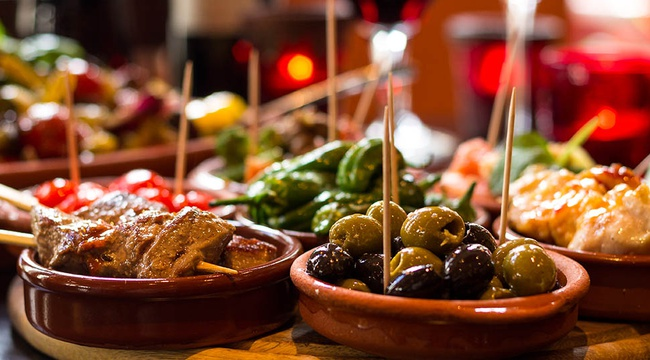
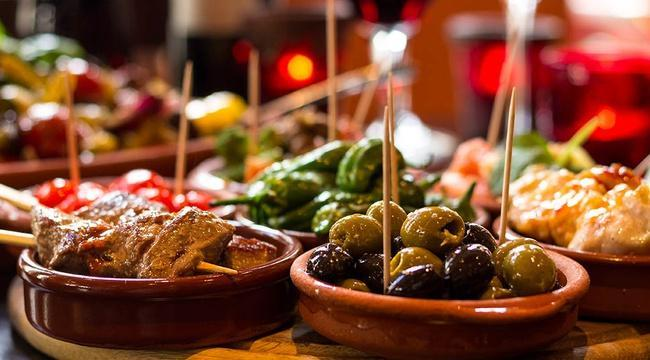
serverside image rescaling

diff --git a/logic/upload.php b/logic/upload.php
@@ -6,7 +6,7 @@ require_once("../data/dbfunctions.php");
 // Check if the form was submitted
 if ($_SERVER["REQUEST_METHOD"] == "POST" && isset($_SESSION['admin']) && $_SESSION['admin'] == true) {
     // Specify the upload directory
-    $uploadDirectory = 'uploads/news';
+    $uploadDirectory = 'uploads/news/';
 
     // Check if the file is uploaded successfully
     if ($_FILES['image'] && $_FILES['image']['error'] == UPLOAD_ERR_OK) {
@@ -15,27 +15,30 @@ if ($_SERVER["REQUEST_METHOD"] == "POST" && isset($_SESSION['admin']) && $_SESSI
         if ($check !== false) {
             // Check file size (limit to 10MB)
             if ($_FILES['image']['size'] <= 10 * 1024 * 1024) {
-                // Check file format (allow only certain formats, e.g., jpeg, png, gif)
-                $allowedFormats = ['jpeg', 'jpg', 'png', 'gif'];
+                // Check file format
+                $allowedFormats = ['jpeg', 'jpg', 'png'];
                 $fileFormat = strtolower(pathinfo($_FILES['image']['name'], PATHINFO_EXTENSION));
 
                 if (in_array($fileFormat, $allowedFormats)) {
-                    // Move the uploaded file to the specified directory with the original filename
-                    $uploadPath = 'uploads/news' . basename($_FILES['image']['name']);
+                    // Generate a unique filename to avoid overwriting existing files
+                    $imageName = pathinfo($_FILES['image']['name'], PATHINFO_FILENAME) . '.' . $fileFormat;
+                    $uploadPath = $uploadDirectory . $imageName;
 
                     if (move_uploaded_file($_FILES['image']['tmp_name'], '../' . $uploadPath)) {
+                        resizeImage("../" . $uploadPath, 650, 360);
                         // Update the image_url for the existing news article
-                        $newsId = $_POST['news_id']; // Assuming you have a hidden input field for news_id in your form
+                        $newsId = $_POST['news_id'];
                         $image_url = $uploadPath;
-                    
+
                         $sql = "UPDATE `news` SET `image_url` = ? WHERE `id` = ?";
                         $stmt = $db->prepare($sql);
                         $stmt->bind_param("si", $image_url, $newsId);
-                    
+
                         if ($stmt->execute()) {
                             // Success message
                             echo "File successfully uploaded and data updated in the database.";
                             header("Location: ../home.php");
+                            exit();
                         } else {
                             // Error message for database update failure
                             echo "Error updating data in the database.";
@@ -62,7 +65,7 @@ if ($_SERVER["REQUEST_METHOD"] == "POST" && isset($_SESSION['admin']) && $_SESSI
         echo "File upload failed. Please check the file and try again";
     }
 } else {
-    // Redirect to home.php if accessed directly without form submission or if user is not admin
+    // Redirect to home.php if accessed directly without form submission or if the user is not admin
     header("Location: ../home.php");
     exit();
 }

diff --git a/components/navbar.php b/components/navbar.php
@@ -52,30 +52,34 @@
           <!-- Reservations Dropdown -->
           <div class="dropdown">
             <button class="btn btn-light dropdown-toggle" type="button" id="reservationsDropdown" data-bs-toggle="dropdown" aria-expanded="false">
-                Reservations
+              Reservations
             </button>
             <ul class="dropdown-menu" aria-labelledby="reservationsDropdown">
-                <?php
-                // fetch user bookings from the database
-                $userEmail = $_SESSION['email'];
-                $userBookings = getUserBookings($userEmail);
+              <?php
+              // fetch user bookings from the database
+              $userEmail = $_SESSION['email'];
+              $userBookings = getUserBookings($userEmail);
 
-                // compare two bookings based on their date
-                function compareBookings($booking1, $booking2) {
-                  $date1 = strtotime($booking1['arrival_date']);
-                  $date2 = strtotime($booking2['arrival_date']);
+              // compare two bookings based on their date
+              function compareBookings($booking1, $booking2) {
+                $date1 = strtotime($booking1['arrival_date']);
+                $date2 = strtotime($booking2['arrival_date']);
 
-                  return $date1 - $date2;
-                }
+                return $date1 - $date2;
+              }
 
-                // sort the user bookings based on date
-                usort($userBookings, 'compareBookings');
+              // sort the user bookings based on date
+              usort($userBookings, 'compareBookings');
 
-                // display user bookings in the dropdown
+              // display user bookings in the dropdown
+              if (empty($userBookings)) {
+                echo '<li><a class="dropdown-item">No reservations</a></li>';
+              } else {
                 foreach ($userBookings as $booking) {
-                    echo '<li><a href="../details.php?bookingId=' . $booking['id'] . '" class="dropdown-item">' . $booking['room_title'] . '</a></li>';
+                  echo '<li><a href="../details.php?bookingId=' . $booking['id'] . '" class="dropdown-item">' . $booking['room_title'] . '</a></li>';
                 }
-                ?>
+              }
+              ?>
             </ul>
           </div>
           <!-- Booking Management -->

diff --git a/data/dbfunctions.php b/data/dbfunctions.php
@@ -288,5 +288,65 @@ function findBookingsByUserId($userId) {
     return $bookings;
 }
 
+// Function to resize image
+function resizeImage($file, $width, $height) {
+    // Get image information
+    list($origWidth, $origHeight, $imageType) = getimagesize($file);
+
+    // Determine image type and create appropriate source image resource
+    switch ($imageType) {
+        case IMAGETYPE_JPEG:
+            $sourceImage = imagecreatefromjpeg($file);
+            break;
+        case IMAGETYPE_PNG:
+            $sourceImage = imagecreatefrompng($file);
+            break;
+        default:
+            // Unsupported image type
+            return false;
+    }
+
+    $imageRatio = $origWidth / $origHeight;
+    $targetRatio = $width / $height;
+
+    if ($imageRatio > $targetRatio) {
+        $newWidth = $width;
+        $newHeight = $width / $imageRatio;
+    } else {
+        $newHeight = $height;
+        $newWidth = $height * $imageRatio;
+    }
+
+    $resizedImage = imagecreatetruecolor($newWidth, $newHeight);
+
+    // preserve transparency for PNG images
+    if ($imageType === IMAGETYPE_PNG) {
+        imagealphablending($resizedImage, false);
+        imagesavealpha($resizedImage, true);
+    }
+
+    // perform image resizing
+    imagecopyresampled($resizedImage, $sourceImage, 0, 0, 0, 0, $newWidth, $newHeight, $origWidth, $origHeight);
+
+    // save the resized image based on its original format
+    switch ($imageType) {
+        case IMAGETYPE_JPEG:
+            imagejpeg($resizedImage, $file);
+            break;
+        case IMAGETYPE_PNG:
+            imagepng($resizedImage, $file);
+            break;
+
+        default:
+            // unsupported image type
+            return false;
+    }
+    // free up
+    imagedestroy($resizedImage);
+    imagedestroy($sourceImage);
+
+    return true;
+}
+
 ?>
 

diff --git a/data/savenews.php b/data/savenews.php
@@ -21,6 +21,8 @@ if ($_SERVER["REQUEST_METHOD"] === "POST") {
 
             // set the image URL to the uploaded image path
             $imageUrl = $targetFilePath;
+            // resize the uploaded image
+            resizeImage("../" . $targetFilePath, 650, 360);
         } else {
             // invalid image type, use default image URL
             $imageUrl = $defaultImageUrl;

diff --git a/data/saveroom.php b/data/saveroom.php
@@ -21,6 +21,8 @@ if ($_SERVER["REQUEST_METHOD"] === "POST") {
 
             // set the image URL to the uploaded image path
             $imageUrl = $targetFilePath;
+            // resize the uploaded image
+            resizeImage("../" . $targetFilePath, 650, 360);
         } else {
             // invalid image type, use default image URL
             $imageUrl = $defaultImageUrl;

diff --git a/README.md b/README.md
@@ -8,6 +8,12 @@ For Local Database initialization:
 3. Import the db/schema/initial.php file
 4. Verify the data (e.g. SELECT * FROM userdata;)
 
+Activate GD-Extension in php.ini (to enable image rescaling functions)
+1. Open php.ini (e.g.: "..\xampp\php" or "../MAMP/bin/php/php8.2.0/bin/php.ini")
+2. Search "extension=gd" or "extension=gd2"
+3. Remove the Semicolon ";" in front of "extension=gd" or "extension=gd2"
+4. Save the php.ini file
+
 admin User-Login:
 
 E-Mail: 'admin@admin.com'\
